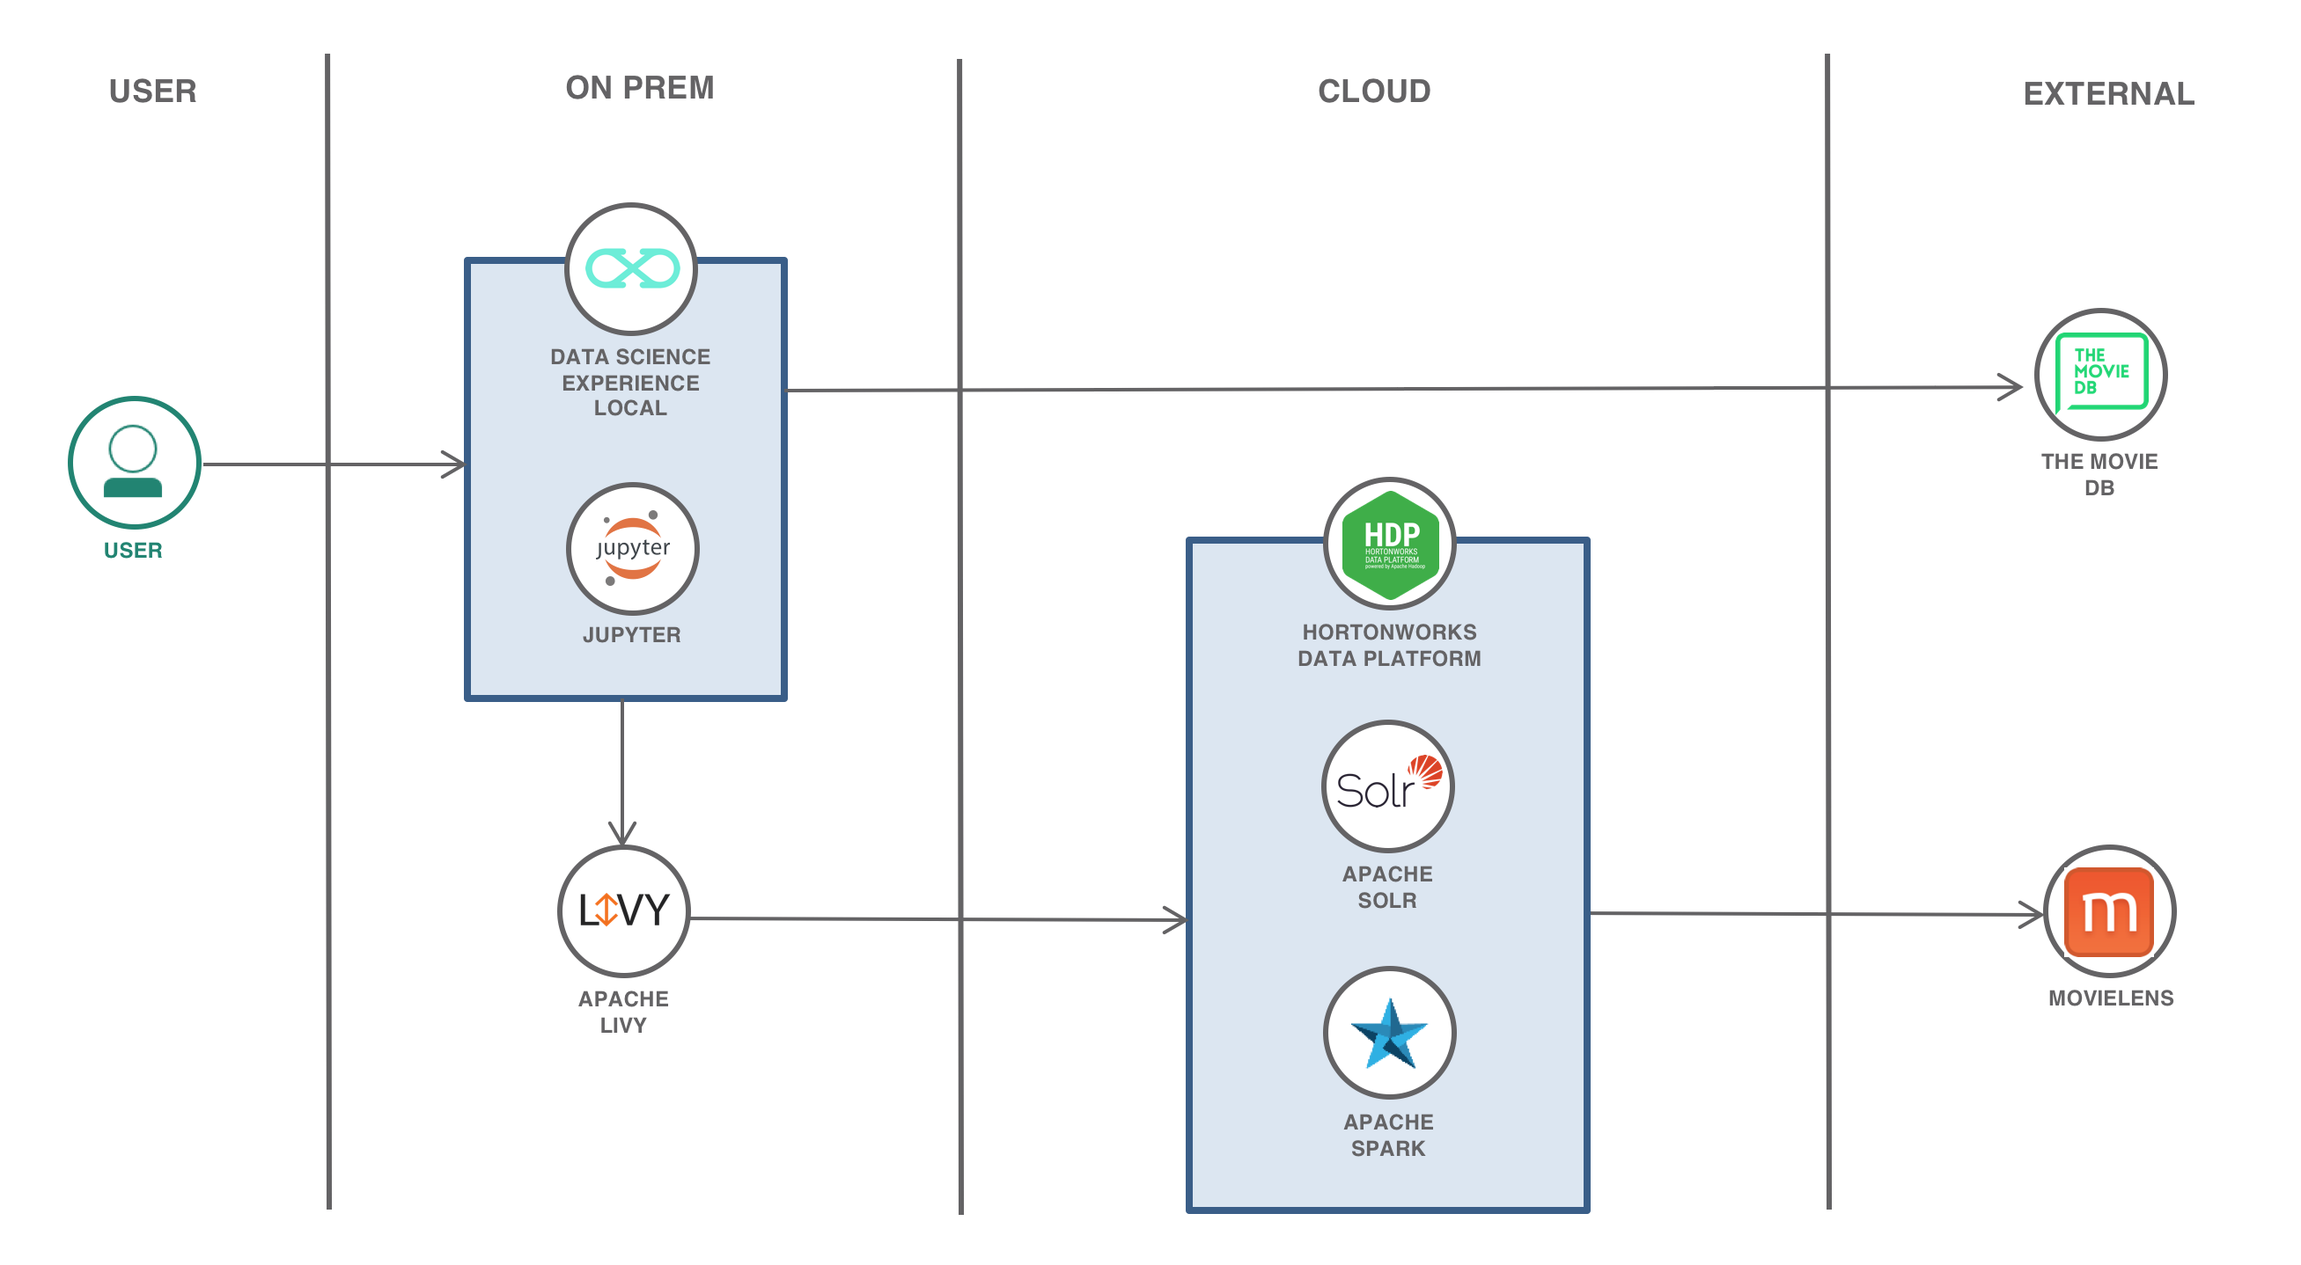
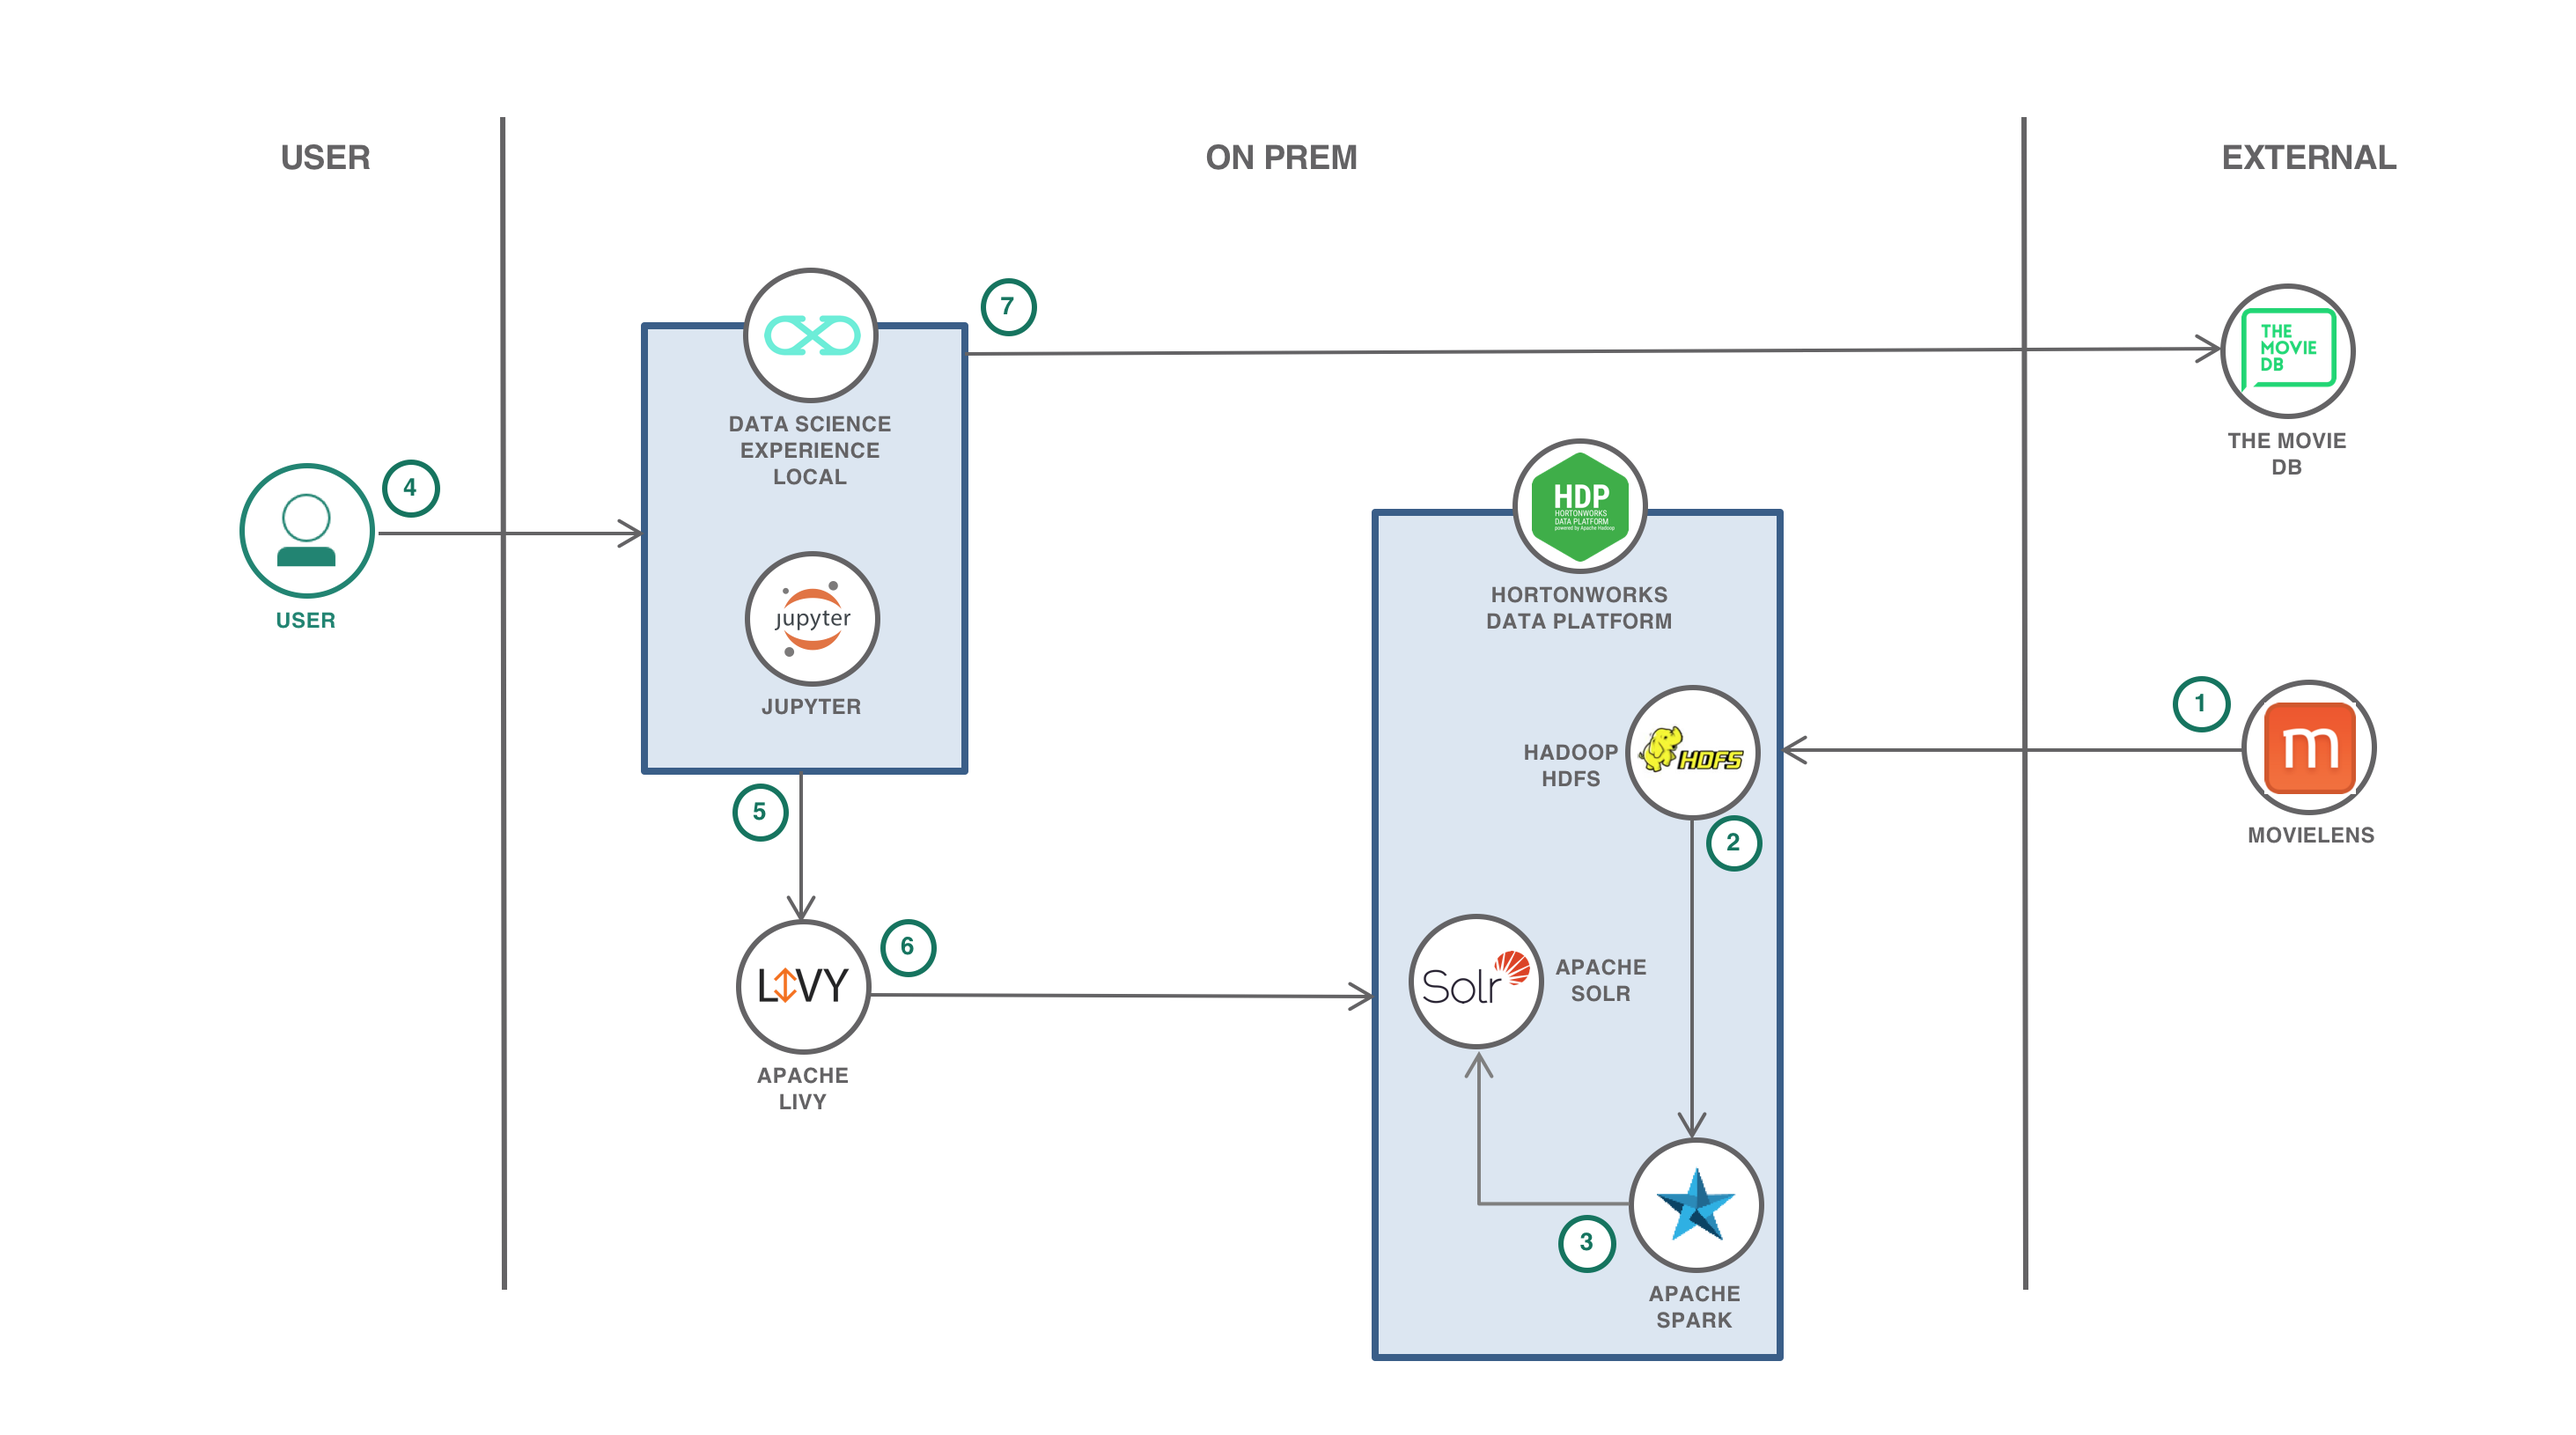
add steps to architecture

diff --git a/README.md b/README.md
@@ -25,11 +25,13 @@ When you have completed this Code Pattern, you will understand how to:
 
 ![](images/architecture.png)
 
-1. Load the movie dataset into Spark.
-2. Use Spark DataFrame operations to clean up the dataset and load it into Solr.
-3. Using Spark MLlib, train a collaborative filtering recommendation model.
-4. Save the resulting model into Solr.
-5. Using Solr queries and a custom vector scoring plugin, generate some example recommendations. [The Movie Database](https://www.themoviedb.org/) API is used to display movie poster images for the recommended movies.
+1. Load the movie dataset into Apache Hadoop HDFS.
+2. Use Spark DataFrame operations to clean the dataset and use Spark MLlib to train a collaborative filtering recommendation model.
+3. Save the resulting model into Apache Solr.
+4. The user can run the provided notebook in IBM's Data Science Experience Local
+5. As the notebook runs, Apache Livy will be called to interact with the Spark service in HDP.
+6. Using Solr queries and a custom vector scoring plugin, generate example recommendations.
+7. When necessary, retrieve information about movies, such as poster images, using [The Movie Database](https://www.themoviedb.org/) APIs.
 
 ## Included components
 
